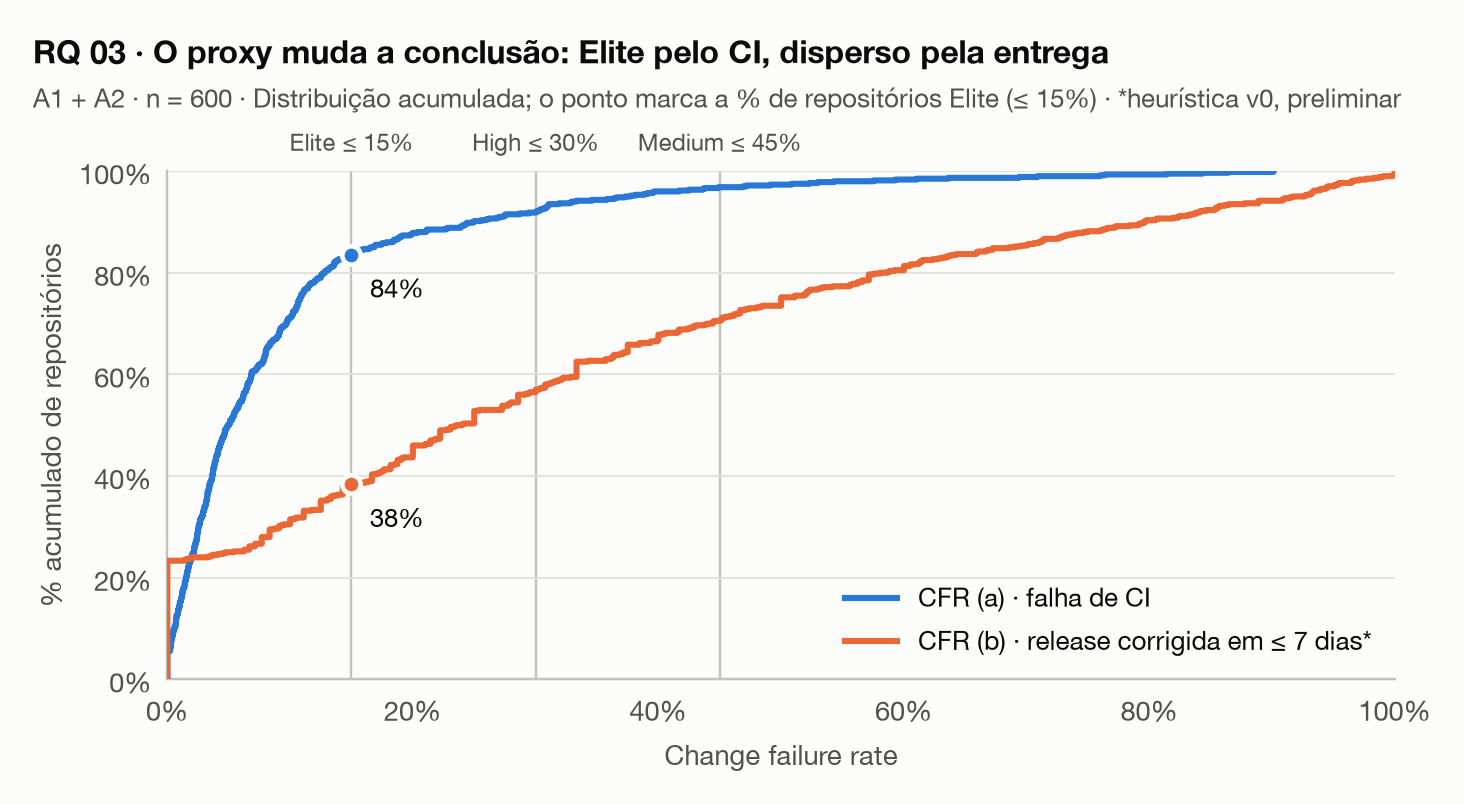
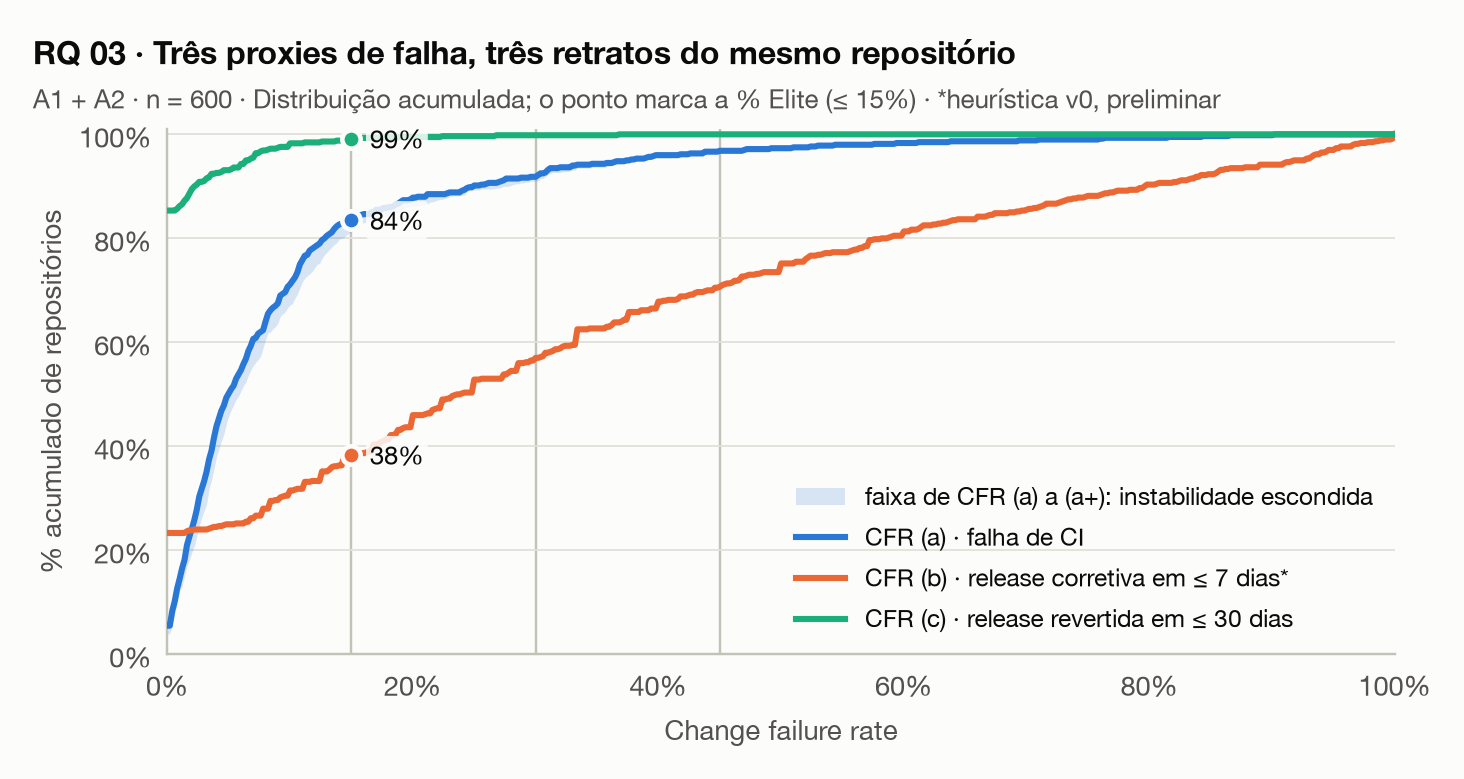
#156 usa os proxies CFR (a+) e CFR (c) na RQ03 e na RQ05 com a analise do efeito do volume de commits

diff --git a/lab-expe-03/analise/graficos.py b/lab-expe-03/analise/graficos.py
@@ -269,6 +269,12 @@ def _degraus(ax, v, p, **kw):
 
 
 def fig_rq03(df: pd.DataFrame, destino: Path) -> Path:
+    if "cfr_c_revert" in df.columns:
+        return fig_cfr_proxies(df, destino)
+    return _fig_rq03_dois_proxies(df, destino)
+
+
+def _fig_rq03_dois_proxies(df: pd.DataFrame, destino: Path) -> Path:
     fig, ax = plt.subplots(figsize=(LARGURA, 3.0))
     ax.grid(axis="y")
     for limite, nome in ((0.15, "Elite ≤ 15%"), (0.30, "High ≤ 30%"), (0.45, "Medium ≤ 45%")):
@@ -364,8 +370,10 @@ def fig_perfil(dist: pd.DataFrame, destino: Path) -> Path:
 
 
 def fig_rq05(df: pd.DataFrame, tabela: pd.DataFrame, destino: Path) -> Path:
-    fig, eixos = plt.subplots(1, 2, figsize=(LARGURA, 3.1), sharex=True)
-    for ax, (_, linha), cor in zip(eixos, tabela.iterrows(), SERIE[:2]):
+    tabela = tabela[tabela["coluna_y"] != "cfr_a_reexec"].reset_index(drop=True)
+    descricao = {c: d for c, _, d in est.PROXIES_FALHA}
+    fig, eixos = plt.subplots(1, len(tabela), figsize=(LARGURA, 3.1), sharex=True)
+    for ax, (_, linha), cor in zip(eixos, tabela.iterrows(), SERIE):
         par = df[["df_release_semana", linha["coluna_y"]]].dropna()
         ax.set_xscale("log")
         ax.grid(axis="y")
@@ -378,14 +386,12 @@ def fig_rq05(df: pd.DataFrame, tabela: pd.DataFrame, destino: Path) -> Path:
         ax.set_ylim(-0.02, 1.02)
         ax.yaxis.set_major_formatter(FuncFormatter(lambda v, _: fmt_pct(v)))
         ax.set_xlabel("Releases por semana (log)")
-        ax.set_title(linha["y"] + (" · proxy de CI" if linha["coluna_y"] == "cfr_a" else " · proxy de entrega*"),
-                     fontsize=9.5, pad=6)
+        ax.set_title(f"{linha['y']} · {descricao[linha['coluna_y']]}", fontsize=9, pad=6)
         _ticks_log(ax, [0.1, 0.3, 1, 3, 10, 30], ["0,1", "0,3", "1", "3", "10", "30"])
     eixos[0].set_ylabel("Change failure rate")
     fig.tight_layout()
     cabecalho(eixos[0], "RQ 05 · Velocidade × estabilidade: a correlação depende do proxy de falha",
-              "Spearman entre frequência de deploy e CFR · *heurística v0: mais releases = mais chances de uma "
-              "\"corretiva\" em 7 dias", folga=20)
+              "Spearman entre frequência de deploy e CFR · *heurística v0, preliminar", folga=20)
     return salvar(fig, destino)
 
 
@@ -591,7 +597,7 @@ def fig_cfr_proxies(df: pd.DataFrame, destino: Path) -> Path:
     ax.set_xlabel("Change failure rate")
     ax.set_ylabel("% acumulado de repositórios")
     ax.legend(loc="lower right", fontsize=8)
-    cabecalho(ax, "Três proxies de falha, três retratos: só a release revertida é quase sempre Elite",
+    cabecalho(ax, "RQ 03 · Três proxies de falha, três retratos do mesmo repositório",
               "Distribuição acumulada; o ponto marca a % Elite (≤ 15%) · *heurística v0, preliminar")
     return salvar(fig, destino)
 

diff --git a/lab-expe-03/analise/estatisticas.py b/lab-expe-03/analise/estatisticas.py
@@ -7,6 +7,7 @@ import numpy as np
 import pandas as pd
 from scipy import stats
 from sklearn.metrics import cohen_kappa_score
+import statsmodels.api as sm
 from statsmodels.stats.multitest import multipletests
 
 from metricas.dora import NOMES, classificar
@@ -147,13 +148,51 @@ def distribuicao_categorias(df: pd.DataFrame) -> pd.DataFrame:
     return pd.DataFrame(linhas)
 
 
+PROXIES_FALHA = (
+    ("cfr_a", "CFR (a)", "proxy de CI"),
+    ("cfr_a_reexec", "CFR (a+)", "CI com reexecuções"),
+    ("cfr_b_release", "CFR (b)", "release corretiva*"),
+    ("cfr_c_revert", "CFR (c)", "release revertida"),
+)
+
+
 def rq05(df: pd.DataFrame) -> pd.DataFrame:
     linhas = []
-    for cfr, rotulo in (("cfr_a", "CFR (a)"), ("cfr_b_release", "CFR (b)")):
+    for cfr, rotulo, _ in PROXIES_FALHA:
+        if cfr not in df.columns:
+            continue
         par = df[["df_release_semana", cfr]].dropna()
         rho, p = stats.spearmanr(par["df_release_semana"], par[cfr])
         linhas.append({"x": "Frequência", "y": rotulo, "coluna_y": cfr, "rho": rho, "p": p, "n": len(par)})
     return pd.DataFrame(linhas)
+
+
+def rq05_revert(df: pd.DataFrame) -> dict:
+    d = df.dropna(subset=["cfr_c_revert"])
+    com = d[d["cfr_c_n_revertidas"] > 0]
+    sem = d[d["cfr_c_n_revertidas"] == 0]
+    ranks = lambda s: s.rank()
+    controle = sm.add_constant(ranks(d["n_commits_releases"]))
+    res_x = sm.OLS(ranks(d["df_release_semana"]), controle).fit().resid
+    res_y = sm.OLS(ranks(d["cfr_c_revert"]), controle).fit().resid
+    parcial, p_parcial = stats.pearsonr(res_x, res_y)
+    rho_com, p_com = stats.spearmanr(com["df_release_semana"], com["cfr_c_revert"])
+    return {
+        "n": len(d),
+        "n_com_revert": len(com),
+        "df_mediana_com_revert": com["df_release_semana"].median(),
+        "df_mediana_sem_revert": sem["df_release_semana"].median(),
+        "rho_parcial_commits": parcial,
+        "p_parcial_commits": p_parcial,
+        "rho_so_com_revert": rho_com,
+        "p_so_com_revert": p_com,
+    }
+
+
+def correlacao_proxies(df: pd.DataFrame) -> pd.DataFrame:
+    colunas = [c for c, _, _ in PROXIES_FALHA if c in df.columns]
+    rotulos = {c: r for c, r, _ in PROXIES_FALHA}
+    return df[colunas].corr(method="spearman").rename(index=rotulos, columns=rotulos)
 
 
 def fatores(df: pd.DataFrame) -> dict[str, pd.Series]:

diff --git a/lab-expe-03/analise/__main__.py b/lab-expe-03/analise/__main__.py
@@ -36,8 +36,9 @@ def gerar(df: pd.DataFrame, funil: pd.DataFrame | None, pasta: Path, rotulo: str
     ]
     if "cfr_c_revert" in df.columns:
         est.resumo_alternativas(df).to_csv(tabelas / "medidas_alternativas.csv", index=False)
+        est.correlacao_proxies(df).to_csv(tabelas / "correlacao_proxies_falha.csv")
+        pd.Series(est.rq05_revert(df)).to_csv(tabelas / "rq05_revert_detalhe.csv", header=["valor"])
         gerados += [
-            g.fig_cfr_proxies(df, figuras / "fig13_cfr_proxies.png"),
             g.fig_feedback_ci(df, figuras / "fig14_feedback_ci.png"),
             g.fig_distribuicao_trabalho(df, figuras / "fig15_distribuicao_trabalho.png"),
         ]

diff --git a/lab-expe-03/artigo/03-resultados.md b/lab-expe-03/artigo/03-resultados.md
@@ -74,12 +74,34 @@ Para a discussão: release publicada é um proxy conservador de deploy. Projetos
 - É uma curva acumulada. Para cada valor de CFR no eixo horizontal, a altura da curva é a % de repositórios com CFR até aquele valor.
 - Quanto mais cedo a curva sobe, mais repositórios têm taxa de falha baixa.
 - As linhas verticais são as fronteiras DORA (15%, 30% e 45%). O ponto marca quantos repositórios são Elite (≤ 15%).
+- Há três proxies de falha, e a faixa azul clara vai do CFR (a) ao CFR (a+).
 
-**Resultado.** Os dois proxies contam histórias opostas, e isso se repete nas duas amostras:
-- Pela **falha de CI**, CFR (a), **84% dos repositórios são Elite** com 300 (83% com 600), com mediana de 5,6% (5,0%).
-- Pela **release corrigida em até 7 dias**, CFR (b), só **37%** são Elite (38%), com mediana de 25% (24%). Cerca de 23% dos repositórios têm CFR (b) igual a zero, o degrau vertical no início da curva laranja.
+| Proxy | O que conta como falha |
+| :--- | :--- |
+| **CFR (a)** · CI | run do GitHub Actions que falhou (última tentativa) |
+| **CFR (a+)** · CI com reexecuções | também os runs que só passaram depois de reexecutados (limite pessimista do CI) |
+| **CFR (b)** · entrega [PRELIMINAR] | release seguida, em até 7 dias, de uma release corretiva (heurística v0) |
+| **CFR (c)** · revert | release com algum commit desfeito por um revert em até 30 dias |
 
-Para a discussão: o CFR (a) mede a falha do *pipeline*, não a falha em produção. Testes instáveis e falhas corrigidas antes do merge entram como falha. O CFR (b) depende da heurística de corretiva, e a v0 provavelmente o infla.
+**Tabela 6 — CFR por proxy, 300 × 600.**
+
+| Proxy | Mediana 300 | Mediana 600 | % Elite 300 | % Elite 600 |
+| :--- | ---: | ---: | ---: | ---: |
+| CFR (a) | 5,6% | 5,0% | 84% | 84% |
+| CFR (a+) | 6,2% | 5,9% | 82% | 81% |
+| CFR (b) [PRELIMINAR] | 25,0% | 23,8% | 37% | 38% |
+| CFR (c) | 0% | 0% | 99% | 99% |
+
+**Resultado: o mesmo repositório parece Elite ou Low dependendo do proxy.**
+- **Pelo CI**, 84% são Elite, e a instabilidade escondida (a → a+) quase não muda isso.
+- **Pela release corretiva**, só 37–38% são Elite.
+- **Pelo revert**, 99% são Elite, porque reverter uma release é raro: 1,3% das releases.
+- Os proxies **quase não se correlacionam**: Spearman entre CFR (a), (b) e (c) de 0,03 a 0,16 com 600 (`analise/saida/600/tabelas/correlacao_proxies_falha.csv`). A exceção óbvia é (a) × (a+) = 0,96, porque são a mesma medida.
+
+Para a discussão:
+- Cada proxy mede um fenômeno diferente: o CFR (a) a falha do *pipeline*, o (b) o ritmo de patches, e o (c) só as falhas resolvidas desfazendo a mudança.
+- Nenhum mede "falha em produção" diretamente.
+- A conclusão sobre a estabilidade dos projetos open-source **depende inteiramente da escolha do proxy**, e o artigo precisa dizer isso explicitamente. A validação formal fica na #156, e o CFR (b) final depende da heurística da #138.
 
 ## 3.4 RQ 04 — Tempo de recuperação
 
@@ -127,20 +149,28 @@ Para a discussão: o CFR (a) mede a falha do *pipeline*, não a falha em produç
 | ![RQ05, 300](../analise/saida/figuras/fig07_rq05_velocidade_estabilidade.png) | ![RQ05, 600](../analise/saida/600/figuras/fig07_rq05_velocidade_estabilidade.png) |
 
 **Como ler.**
-- Cada ponto é um repositório, com a frequência de deploy no eixo horizontal (escala log) e o CFR no vertical.
-- O ρ de Spearman vai de −1 a 1: perto de 0 indica ausência de relação monotônica, e valores positivos indicam que o CFR sobe junto com a frequência.
+- Cada ponto é um repositório, com a frequência de deploy no eixo horizontal (escala log) e o CFR no vertical, com um painel por proxy de falha.
+- O ρ de Spearman vai de −1 a 1: perto de 0 indica ausência de relação monotônica, e valores positivos indicam que a falha sobe junto com a frequência.
+
+**Tabela 7 — Spearman entre frequência de deploy e CFR.**
+
+| Proxy de falha | 300 | 600 |
+| :--- | :--- | :--- |
+| CFR (a) · CI | ρ = 0,18 (p = 0,002) | ρ = 0,12 (p = 0,004) |
+| CFR (a+) · CI com reexecuções | ρ = 0,15 (p = 0,008) | ρ = 0,08 (p = 0,057) |
+| CFR (b) · release corretiva [PRELIMINAR] | ρ = 0,60 (p < 0,001) | ρ = 0,56 (p < 0,001) |
+| CFR (c) · revert | ρ = 0,36 (p < 0,001) | ρ = 0,34 (p < 0,001) |
 
 **Resultado.**
+- **Pelo CI**, a correlação é **fraca** e cai com mais dados. Com a+ deixa de ser significativa em 600. Publicar mais não se associa a quebrar mais o pipeline.
+- **Pelos dois proxies de entrega**, a correlação é positiva (moderada no revert, forte na corretiva), mas **os dois têm um efeito mecânico da granularidade das releases**:
+  - **CFR (b):** quem publica muitas releases tem, por construção, mais chance de que uma delas seja uma "corretiva" em até 7 dias.
+  - **CFR (c):** quem publica mais tem mais commits, e mais chance de que **algum** seja revertido. Só 85 dos 580 repositórios têm alguma release revertida, e eles publicam muito mais: mediana de 0,98 contra 0,29 releases/semana. Controlando o volume de commits, a correlação cai de 0,34 para 0,24 (parcial de Spearman). **Entre os 85 que têm revert, a relação se inverte** (ρ = −0,66): quem publica mais tem uma proporção **menor** de releases revertidas, porque os reverts se diluem entre mais releases (`analise/saida/600/tabelas/rq05_revert_detalhe.csv`).
 
-| Correlação de Spearman com a frequência | 300 | 600 |
-| :--- | :--- | :--- |
-| CFR (a), proxy de CI | ρ = 0,18 (p = 0,002) | ρ = 0,12 (p = 0,004) |
-| CFR (b), proxy de entrega [PRELIMINAR] | ρ = 0,60 (p < 0,001) | ρ = 0,56 (p < 0,001) |
-
-- **Pelo CI**, a correlação é significativa mas **fraca**, e fica ainda menor com 600. Na prática, publicar mais não se associa a quebrar mais o CI.
-- **Pela entrega**, a correlação é **forte** nas duas, mas em boa parte é um artefato da definição: quem publica muitas releases tem, por construção, mais chance de que uma delas seja uma "corretiva" publicada em até 7 dias.
-
-Para a discussão: o resultado com o proxy de CI é coerente com a afirmação do DORA de que velocidade e estabilidade não são *trade-off*. O resultado com o proxy de entrega não deve ser lido como evidência do contrário antes da heurística validada (#138). Em nenhum dos dois casos a correlação implica causalidade.
+Para a discussão:
+- O único proxy que não depende da contagem de releases (o CI) **não mostra trade-off**, o que é coerente com a afirmação do DORA de que velocidade e estabilidade andam juntas.
+- Os proxies de entrega mostram correlação positiva, mas ela é **parcialmente um artefato da forma de medir**, em direções diferentes conforme o recorte. Não sustentam a conclusão de que velocidade reduz a estabilidade.
+- Em nenhum caso a correlação implica causalidade.
 
 ## 3.7 RQ 06 — Características associadas ao desempenho
 
@@ -297,15 +327,7 @@ Uma release R conta como falha se algum commit dela foi desfeito (`This reverts 
 - **Revert é raro:** 223 de 17.726 releases avaliadas (1,3%). Em 82% dos repositórios nenhuma release foi revertida, e 99% são Elite por esse proxy.
 - O CFR (c) é um **limite inferior** de falha: só capta falhas resolvidas por revert. Correções por novo commit (*fix forward*) ficam de fora.
 
-![Proxies de falha](../analise/saida/600/figuras/fig13_cfr_proxies.png)
-
-**Como ler.** É a mesma curva acumulada da RQ03, agora com três proxies:
-- a faixa azul clara vai do CFR (a) ao CFR (a+);
-- os pontos marcam a % Elite de cada proxy.
-
-A versão com 300 está em `analise/saida/figuras/fig13_cfr_proxies.png`.
-
-**Resultado:** o mesmo conjunto de repositórios aparece como **99% Elite** (revert), **84% Elite** (CI) ou **38% Elite** (release corretiva v0), conforme o proxy. Os três também quase não se correlacionam entre si (Spearman de 0,03 a 0,16 com 600). É um primeiro indício, a ser formalizado na #156, de que **"falha" depende inteiramente do proxy** e de que cada um mede um fenômeno diferente.
+A comparação dos três proxies de falha (figura, % Elite e correlações) está na **RQ03 (seção 3.3)**, e o efeito sobre o *trade-off* velocidade × estabilidade, na **RQ05 (seção 3.6)**.
 
 ### Ciclo de feedback do CI
 
